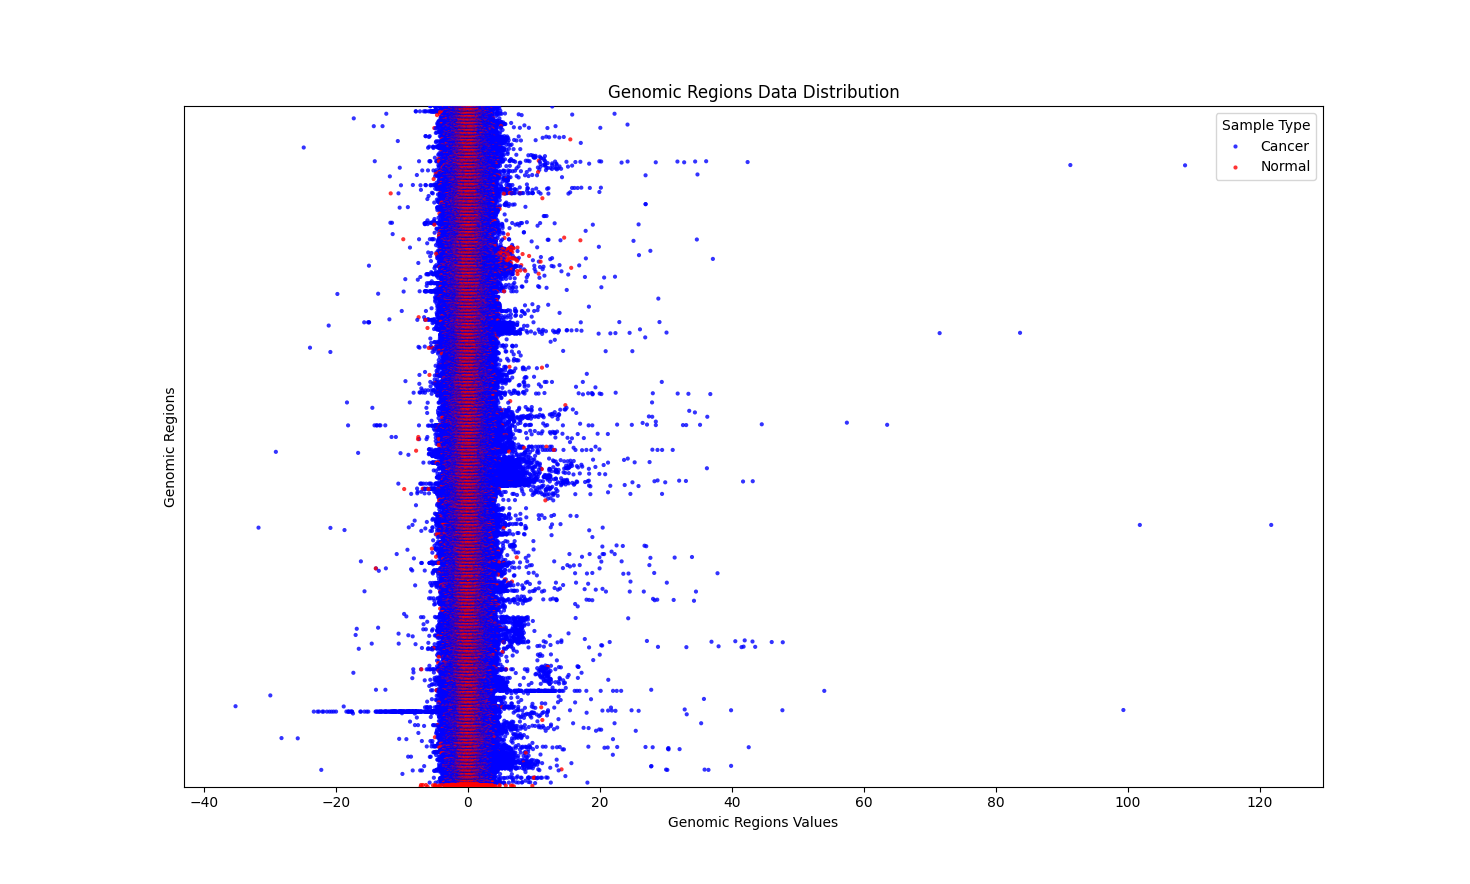
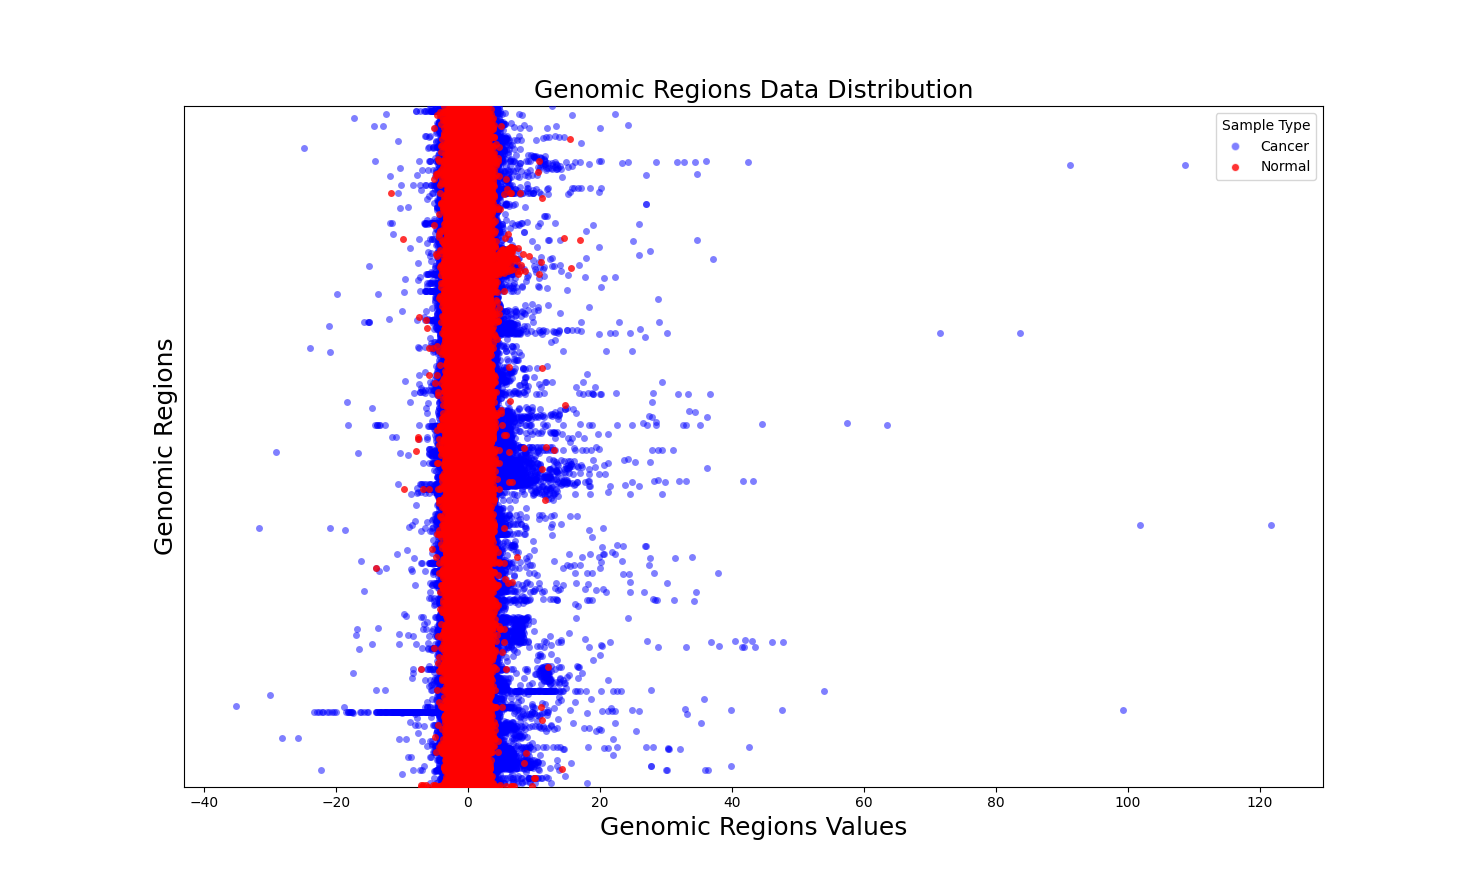
plot fontsize change

diff --git a/BDD_cancer/Boxplot.py b/BDD_cancer/Boxplot.py
@@ -3,6 +3,7 @@ import numpy as np
 import pandas as pd
 import matplotlib.pyplot as plt
 import seaborn as sns
+import matplotlib.patches as mpatches
 
 # Obtain the list of samples
 sample_list_file = "AllSamples.MIGHT.Passed.samples.txt"
@@ -66,15 +67,24 @@ melted_data = pd.melt(combined_data.reset_index(), id_vars=['Sample', 'Type'],
                       var_name='Genomic Region', value_name='Value')
 
 # Plot using hue to differentiate between cancer and normal samples
-plt.figure(1, figsize=(15, 9))
-sns.stripplot(data=melted_data, x='Value', y='Genomic Region', hue='Type', 
-              jitter=True, size=3, marker="o", alpha=0.8, palette={"Cancer": "blue", "Normal": "red"})
-plt.yticks([])
-plt.title('Genomic Regions Data Distribution')
-plt.xlabel('Genomic Regions Values')
-plt.ylabel('Genomic Regions')
-plt.legend(title='Sample Type', loc='upper right')
-plt.show()
+# plt.figure(1, figsize=(15, 9))
+
+# sns.stripplot(data=melted_data[melted_data['Type'] == 'Cancer'], x='Value', y='Genomic Region', 
+#               jitter=True, size=5, marker="o", alpha=0.5, color="blue")
+
+# sns.stripplot(data=melted_data[melted_data['Type'] == 'Normal'], x='Value', y='Genomic Region', 
+#               jitter=True, size=5, marker="o", alpha=0.8, color="red")
+
+# blue_dot = plt.Line2D([0], [0], marker='o', color='w', markerfacecolor='blue', markersize=6, label='Cancer', alpha=0.5)
+# red_dot = plt.Line2D([0], [0], marker='o', color='w', markerfacecolor='red', markersize=6, label='Normal', alpha=0.8)
+
+# plt.legend(handles=[blue_dot, red_dot], title='Sample Type', loc='upper right')
+
+# plt.yticks([])
+# plt.title('Genomic Regions Data Distribution', fontsize=18)
+# plt.xlabel('Genomic Regions Values', fontsize=18)
+# plt.ylabel('Genomic Regions', fontsize=18)
+# plt.show()
 
 ## Plot for Stage IV and Stage I
 
@@ -88,18 +98,21 @@ stage_i_numeric = stage_i_numeric.apply(pd.to_numeric, errors='coerce').fillna(0
 
 plt.figure(2, figsize=(15, 9))
 # sns.boxplot(data=stage_iv_numeric, orient='h', palette="coolwarm")
-sns.stripplot(data=stage_iv_numeric, orient='h', color="blue", jitter=True, size=3, marker=".", alpha=0.7)
+plt.subplot(2, 1, 1)
+plt.xlim(-40, 110)
+sns.stripplot(data=stage_iv_numeric, orient='h', color="blue", jitter=True, size=5, marker="o", alpha=0.5)
 plt.yticks([])
-plt.title('Boxplot of Genomic Regions for Stage IV')
-plt.xlabel('Genomic Regions Values')
-plt.ylabel('Genomic Regions')
-plt.show()
-
-plt.figure(3, figsize=(15, 9))
+plt.title('Boxplot of Genomic Regions for Stage IV', fontsize=18)
+# plt.xlabel('Genomic Regions Values', fontsize=18)
+plt.ylabel('Genomic Regions', fontsize=18)
+# plt.show()
+plt.subplot(2, 1, 2)
+# plt.figure(3, figsize=(15, 9))
 # sns.boxplot(data=stage_i_numeric, orient='h', palette="coolwarm")
-sns.stripplot(data=stage_i_numeric, orient='h', color="blue", jitter=True, size=3, marker=".", alpha=0.7)
+plt.xlim(-40, 110)
+sns.stripplot(data=stage_i_numeric, orient='h', color="blue", jitter=True, size=5, marker="o", alpha=0.5)
 plt.yticks([])
-plt.title('Boxplot of Genomic Regions for Stage I')
-plt.xlabel('Genomic Regions Values')
-plt.ylabel('Genomic Regions')
+plt.title('Boxplot of Genomic Regions for Stage I', fontsize=18)
+plt.xlabel('Genomic Regions Values', fontsize=18)
+plt.ylabel('Genomic Regions', fontsize=18)
 plt.show()
